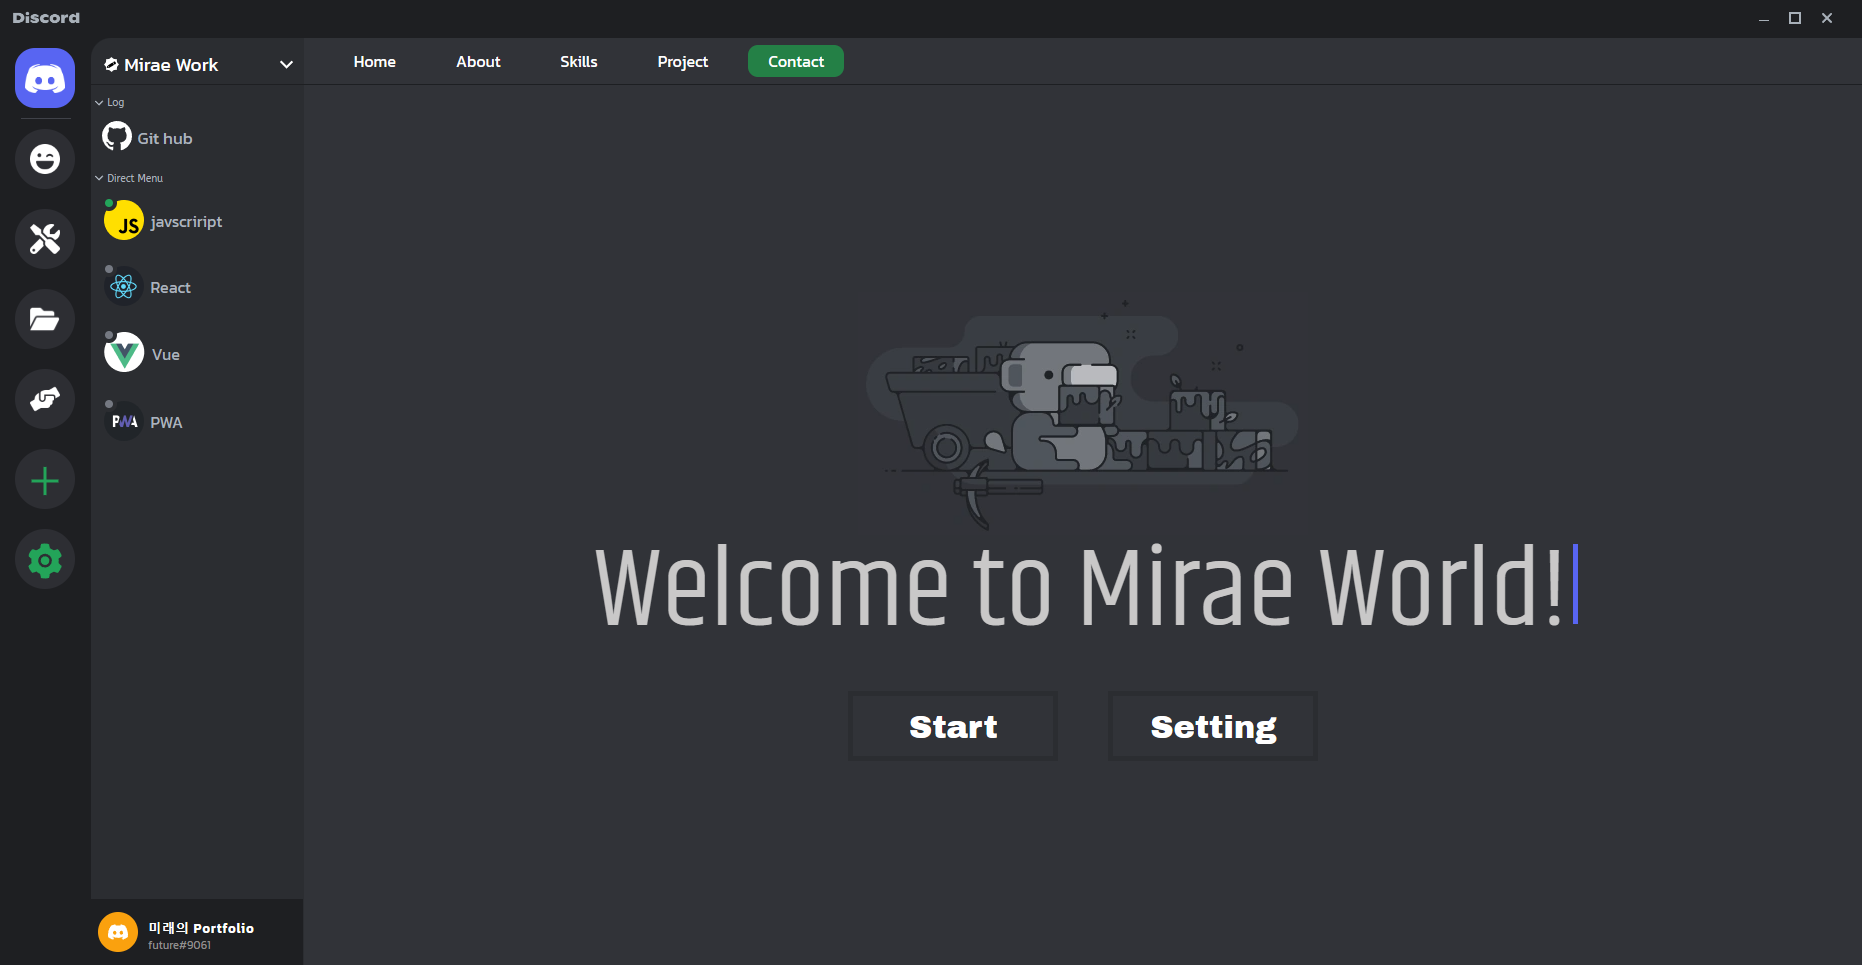
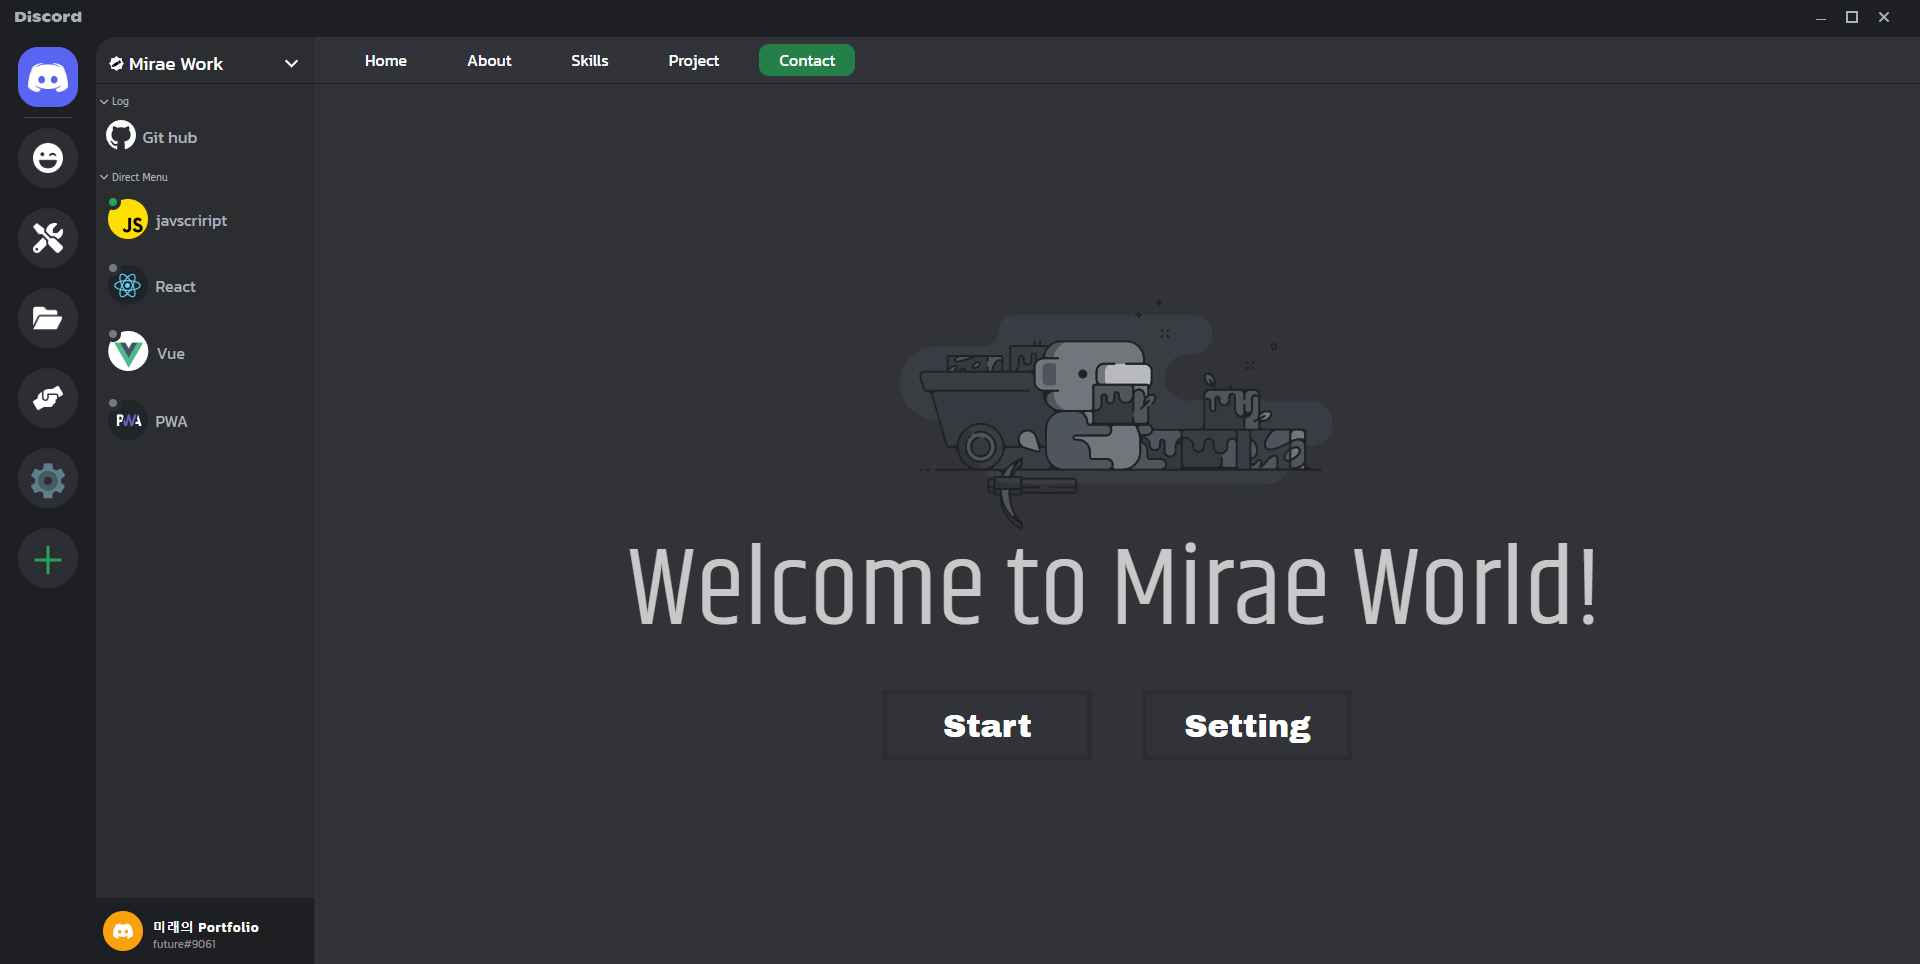
Add files via upload

diff --git a/src/components/SideTab.jsx b/src/components/SideTab.jsx
@@ -1,53 +1,91 @@
-import React, { useContext } from "react";
+import React, { useContext, useState } from "react";
 
 import classes from "./SideTab.module.css";
 import { Circle, CircleIcon, CirclePlus } from "./li/Circle";
 import { Link } from "react-router-dom";
 import { AiOutlinePlus } from "react-icons/ai";
 import { FcSettings } from "react-icons/fc";
-// import { IoMdCompass } from "react-icons/io";
 import { ThemeContext } from "../store/Context";
 
 function SideTab() {
   const { themeMode } = useContext(ThemeContext);
   let dark = themeMode === "dark" ? classes.dark : "";
+  const { atCircle, setAtcircle } = useContext(ThemeContext);
 
   return (
     <div className={`${classes.side_tab} ${dark}`}>
       <ul>
         <Link to="/home">
           <Circle
+            onClick={() => {
+              setAtcircle("Home");
+            }}
+            action={atCircle}
             src={`${process.env.PUBLIC_URL}/img/logo white img.png`}
             circleStyle={{
               backgroundColor: " #5865F2",
             }}
             imgStyle={{ width: "40px", transform: "translateY(5px)" }}
-            name="firstCircle"
             text="Home"
+            name="first"
           />
         </Link>
 
         <div></div>
 
         <Link to="/about">
-          <Circle src="/img/about img.png" text="About" />
+          <Circle
+            src="/img/about img.png"
+            text="About"
+            onClick={() => {
+              setAtcircle("About");
+            }}
+            action={atCircle}
+          />
         </Link>
 
+        {console.log(atCircle)}
+
         <Link to="/skills">
-          <Circle src="/img/skills img.png" text="Skills" />
+          <Circle
+            src="/img/skills img.png"
+            text="Skills"
+            onClick={() => {
+              setAtcircle("Skills");
+            }}
+            action={atCircle}
+          />
         </Link>
 
         <Link to="/project">
-          <Circle src="/img/project.png" text="Project" />
+          <Circle
+            src="/img/project.png"
+            text="Project"
+            onClick={() => {
+              setAtcircle("Project");
+            }}
+            action={atCircle}
+          />
         </Link>
 
         <Link to="/contact">
-          <Circle src="/img/connect img.png" text="connect" />
+          <Circle
+            src="/img/connect img.png"
+            text="Contact"
+            onClick={() => {
+              setAtcircle("Contact");
+            }}
+            action={atCircle}
+          />
         </Link>
 
         <Link to="/setting">
           <CircleIcon
             text="Setting"
+            onClick={() => {
+              setAtcircle("Setting");
+            }}
+            action={atCircle}
             icon={<FcSettings />}
             iconStyle={{
               fontSize: "40px",

diff --git a/src/components/SubBar.jsx b/src/components/SubBar.jsx
@@ -1,29 +1,61 @@
-import React, { useContext } from "react";
+import React, { useContext, useState } from "react";
 import { Link } from "react-router-dom";
 import classes from "./SubBar.module.css";
 import { ThemeContext } from "../store/Context";
+import { Circle } from "./li/Circle";
 
 export default function SubBar() {
   const { themeMode } = useContext(ThemeContext);
   let dark = themeMode === "dark" ? classes.dark : "";
-
+  const { atCircle, setAtcircle } = useContext(ThemeContext);
   return (
     <div className={`${classes.sub_bar_wrap} ${dark}`}>
       <ul>
         <Link to="/home">
-          <li>Home</li>
+          <Circle
+            text="Home"
+            onClick={() => {
+              setAtcircle("Home");
+            }}
+            action={atCircle}
+          />
         </Link>
         <Link to="/about">
-          <li>About</li>
+          <Circle
+            text="About"
+            onClick={() => {
+              setAtcircle("About");
+            }}
+            action={atCircle}
+          />
         </Link>
         <Link to="/skills">
-          <li>Skills</li>
+          <Circle
+            text="Skills"
+            onClick={() => {
+              setAtcircle("Skills");
+            }}
+            action={atCircle}
+          />
         </Link>
         <Link to="/project">
-          <li>Project</li>
+          <Circle
+            text="Project"
+            onClick={() => {
+              setAtcircle("Project");
+            }}
+            action={atCircle}
+          />
         </Link>
         <Link to="/contact">
-          <li className={classes.green}>Contact</li>
+          <Circle
+            text="Contact"
+            className={classes.green}
+            onClick={() => {
+              setAtcircle("Contact");
+            }}
+            action={atCircle}
+          />
         </Link>
       </ul>
     </div>

diff --git a/src/components/li/Circle.jsx b/src/components/li/Circle.jsx
@@ -1,11 +1,14 @@
 import React from "react";
 import classes from "../SideTab.module.css";
 
-export function Circle({ src, circleStyle, imgStyle, name, text }) {
+export function Circle({ src, circleStyle, imgStyle, text, onClick, action }) {
   return (
-    <li>
+    <li
+      className={`${action === text ? classes.fixedStyle : ""}`}
+      onClick={onClick}
+    >
       <span></span>
-      <div className={`${classes[name]}`} style={circleStyle}>
+      <div style={circleStyle}>
         <img src={src} alt="sidetab" style={imgStyle} />
       </div>
       <p>{text}</p>
@@ -13,9 +16,19 @@ export function Circle({ src, circleStyle, imgStyle, name, text }) {
   );
 }
 
-export function CircleIcon({ circleStyle, iconStyle, icon, text }) {
+export function CircleIcon({
+  circleStyle,
+  iconStyle,
+  icon,
+  text,
+  onClick,
+  action,
+}) {
   return (
-    <li>
+    <li
+      className={`${action === text ? classes.fixedStyle : ""}`}
+      onClick={onClick}
+    >
       <span></span>
       <div style={circleStyle} className={classes.icon}>
         <p style={iconStyle}>{icon}</p>

diff --git a/src/store/Context.js b/src/store/Context.js
@@ -3,20 +3,23 @@ import React, { useCallback, useState } from "react";
 export const ThemeContext = React.createContext();
 
 const ThemeProvider = ({ children }) => {
-  // const LocalTheme = window.localStorage.getItem("theme") || "basic";
-  const [themeMode, setThemeMode] = useState("");
-  console.log(themeMode);
-  //로컬 스토지에 저장할거임
+  const LocalTheme = window.localStorage.getItem("theme") || "basic";
+  const [themeMode, setThemeMode] = useState(LocalTheme);
+  const [atCircle, setAtcircle] = useState("");
+
   const chooseTheme = useCallback(() => {
     if (themeMode === "basic") {
       window.localStorage.setItem("theme", "basic");
     } else {
       window.localStorage.setItem("theme", "dark");
     }
+    console.log("chooseTheme", themeMode);
   }, [themeMode]);
 
   return (
-    <ThemeContext.Provider value={{ themeMode, setThemeMode, chooseTheme }}>
+    <ThemeContext.Provider
+      value={{ themeMode, setThemeMode, chooseTheme, atCircle, setAtcircle }}
+    >
       {children}
     </ThemeContext.Provider>
   );

diff --git a/src/components/SideTab.module.css b/src/components/SideTab.module.css
@@ -30,17 +30,17 @@
   transition: 0.2s;
 }
 
-.side_tab li > div:not(.firstCircle) {
+.side_tab li > div:not(.home) {
   border-radius: 50%;
 }
 
-.firstCircle {
+/* .firstCircle > li div {
   border-radius: 20px;
 }
 
 .firstCircle:hover {
   border-radius: 50%;
-}
+} */
 
 .side_tab li img {
   width: 30px;
@@ -108,6 +108,10 @@
 .icon:hover {
   background-color: #23a459;
   color: #fff;
+}
+
+.fixedStyle {
+  border: 1px solid red;
 }
 
 /*다크모드*/

diff --git a/src/pages/Home.module.css b/src/pages/Home.module.css
@@ -47,8 +47,8 @@
   cursor: pointer;
 }
 
-.btn_wrap a button:active {
-  background-color: #5865f2;
+.home_wrap .btn_wrap a button:active {
+  background-color: #23a459;
   border: none;
 }
 
@@ -84,4 +84,9 @@
 .dark .home_inner .btn_wrap a:nth-of-type(2) button {
   background-color: transparent;
   border: 5px solid #171f2f;
+}
+
+.dark .home_inner .btn_wrap a button:active {
+  background-color: #5865f2;
+  border: none;
 }

diff --git a/src/pages/Setting.jsx b/src/pages/Setting.jsx
@@ -6,7 +6,10 @@ import { ThemeContext } from "../store/Context";
 export function Setting() {
   const { themeMode, setThemeMode, chooseTheme } = useContext(ThemeContext);
   let dark = themeMode === "dark" ? classes.dark : "";
-  console.log("감지하고 잇니? ", chooseTheme);
+
+  useEffect(() => {
+    chooseTheme();
+  }, [themeMode, chooseTheme]);
 
   return (
     <div className={`${classes.setting_wrap} ${dark}`}>

diff --git a/src/pages/Home.jsx b/src/pages/Home.jsx
@@ -19,7 +19,7 @@ export function Home() {
     return () => clearInterval(interval);
   });
 
-  const { themeMode, LocalTheme, toggleTheme } = useContext(ThemeContext);
+  const { themeMode } = useContext(ThemeContext);
   let dark = themeMode === "dark" ? classes.dark : "";
   return (
     <div className={`${classes.home_wrap} ${dark}`}>

diff --git a/src/components/SubBar.module.css b/src/components/SubBar.module.css
@@ -23,7 +23,7 @@
   cursor: pointer;
   text-decoration: none;
   font-weight: 400;
-  transition: 0.3s;
+  transition: 0.2s;
   color: white;
   padding: 8px 20px;
   border-radius: 10px;
@@ -55,3 +55,7 @@
 .dark ul li:hover:not(.green) {
   background-color: #4f576b;
 }
+
+/* .dark .green {
+  background-color: rgb(72, 79, 160);
+} */

diff --git a/src/pages/Setting.module.css b/src/pages/Setting.module.css
@@ -76,5 +76,9 @@
 }
 
 .dark .basic_mode button {
-  background-color: #5865f2;
+  background-color: #1e1f22;
+}
+
+.dark .dark_mode button {
+  background-color: rgb(88, 101, 242);
 }

diff --git a/src/components/Category.module.css b/src/components/Category.module.css
@@ -247,3 +247,7 @@
 .dark::before {
   background-color: #131926;
 }
+
+.dark .user .hidden {
+  background-color: #63c23e;
+}
